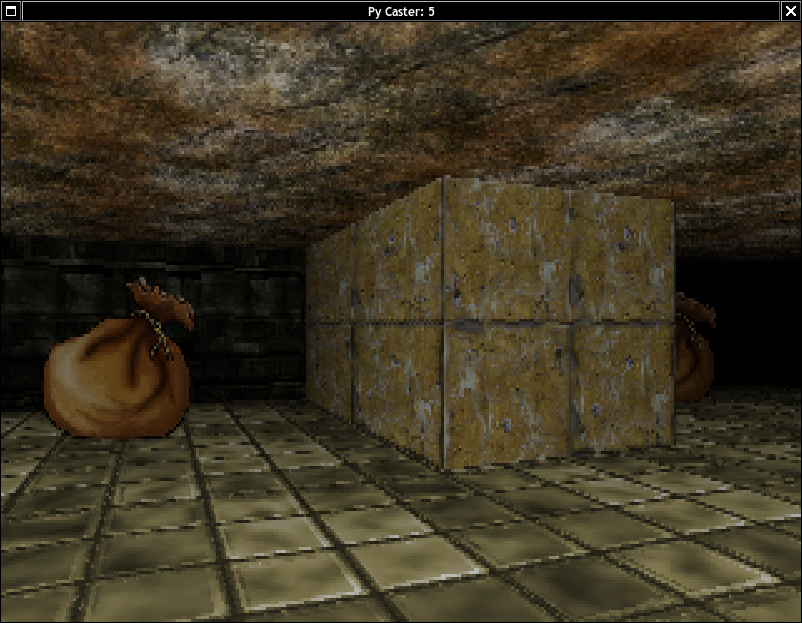
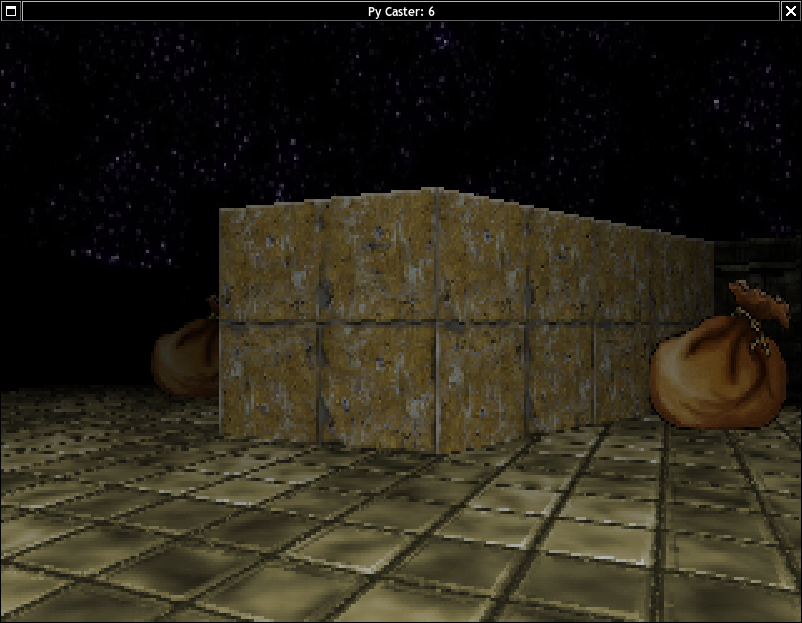
Added sky rendering.

diff --git a/py_caster.py b/py_caster.py
@@ -14,6 +14,7 @@ FAR = 5.0
 TOLERANCE     = 0.000001
 FLOOR_TEXTURE = "Textures/goldlites.jpg"
 CEIL_TEXTURE  = "Textures/brownstone.jpg"
+SKY_TEXTURE   = "Textures/starynight.png"
 
 ##############################################################
 # Projection parameters
@@ -228,6 +229,18 @@ class Sprite(object):
         return self.texture.subsurface(pygame.Rect(_s, 0, 1, self.texture.get_height()))
 
 ##############################################################
+# Sky class
+##############################################################
+
+class Sky(object):
+    def __init__(self, texture):
+        self.texture = pygame.image.load(texture).convert_alpha()
+
+    def sample_texture(self, angle):
+        s = int((angle / 90.0) * self.texture.get_width()) % self.texture.get_width()
+        return self.texture.subsurface(pygame.Rect(s, 0, 1, self.texture.get_height()))
+
+##############################################################
 # Main Function
 ##############################################################
 
@@ -236,6 +249,8 @@ def main():
 
     # Local variables.
     done = False
+    toggle_sky = True
+    sky_enabled = False
     player_pos = vec2(0.0, 0.0)
     player_dir = vec2(-1.0, 0.0)
     plane = vec2(0.0, 0.66)
@@ -276,6 +291,7 @@ def main():
     ]
     floor = Plane3d(FLOOR_TEXTURE)
     ceiln = Plane3d(CEIL_TEXTURE)
+    sky = Sky(SKY_TEXTURE)
     sprites = [
         Sprite(vec2(-1.5, -2.0), "Textures/bag.png"),
         Sprite(vec2(1.5, -2.0), "Textures/bag.png")
@@ -293,11 +309,18 @@ def main():
                 if (event.type == pygame.KEYDOWN and event.key == pygame.K_ESCAPE) or event.type == pygame.QUIT:
                     done = True
 
+                if event.type == pygame.KEYDOWN and event.key == pygame.K_SPACE and toggle_sky:
+                    toggle_sky = False
+                    sky_enabled = not sky_enabled
+
+                elif event.type == pygame.KEYUP and event.key == pygame.K_SPACE and not toggle_sky:
+                    toggle_sky = True
+
                 # Record wich keys were pressed and released this frame
                 try:
                     if event.type == pygame.KEYDOWN:
                         arrow_keys[event.key] = True
-                    if event.type == pygame.KEYUP:
+                    elif event.type == pygame.KEYUP:
                         arrow_keys[event.key] = False
                 except KeyError:
                     pass
@@ -335,13 +358,20 @@ def main():
                 plane.x = plane.x * math.cos(-PLAYER_TURN_SPEED) - plane.y * math.sin(-PLAYER_TURN_SPEED);
                 plane.y = oldPlaneX * math.sin(-PLAYER_TURN_SPEED) + plane.y * math.cos(-PLAYER_TURN_SPEED);
 
-            # Render ceiling and floor.
-            frame_buffer.fill(FILL_COLOR)
+            # Clear the screen
+            #frame_buffer.fill(FILL_COLOR)
 
             # Render walls.
             angle = -FOV / 2.0
             depth_buffer = [0 for x in xrange(FB_SIZE[0])]
+            p_angle = 360.0 - (math.atan2(player_dir.y, player_dir.x) * RAD2DEG)
             for i in xrange(FB_SIZE[0]):
+                if sky_enabled and h < FB_SIZE[1]:
+                    sky_angle = (p_angle + angle) % 360.0
+                    sky_angle = 360.0 - sky_angle if sky_angle < 0.0 else sky_angle
+                    stex = sky.sample_texture(sky_angle)
+                    frame_buffer.blit(stex, (i, 0))
+
                 # Generate camera ray
                 camera_x = 2.0 * (float(i) / float(FB_SIZE[0])) - 1;
                 r = Ray(vec2(player_pos.x, player_pos.y), player_dir.add(plane.scale(camera_x)))
@@ -391,19 +421,22 @@ def main():
                             weight = cd / (d * math.cos(angle * DEG2RAD))
                             st = vec2((weight * p.x) + ((1.0 - weight) * player_pos.x), (weight * p.y) + ((1.0 - weight) * player_pos.y))
 
-                            # Sample floor and ceiling texture
+                            # Sample floor
                             ftex = floor.sample_texture(st)
-                            ctex = ceiln.sample_texture(st)
 
-                            # Draw floor and ceiling
+                            # Draw floor
                             frame_buffer.blit(floor.texture, (i, j), ftex)
-                            frame_buffer.blit(ceiln.texture, (i, FB_SIZE[1] - j), ctex)
 
-                            # Darken floor and ceiling according to distance
+                            # Darken floor according to distance
                             _d = (cd if cd < FAR else FAR) / FAR
                             depth = 255 - int(_d * 255)
                             frame_buffer.fill((depth, depth, depth), pygame.Rect(i, j, 1, 1), pygame.BLEND_MULT)
-                            frame_buffer.fill((depth, depth, depth), pygame.Rect(i, FB_SIZE[1] - j, 1, 1), pygame.BLEND_MULT)
+
+                            # Draw ceiling
+                            if not sky_enabled:
+                                ctex = ceiln.sample_texture(st)
+                                frame_buffer.blit(ceiln.texture, (i, FB_SIZE[1] - j), ctex)
+                                frame_buffer.fill((depth, depth, depth), pygame.Rect(i, FB_SIZE[1] - j, 1, 1), pygame.BLEND_MULT)
 
                 angle += ANGLE_INCREMENT
             
